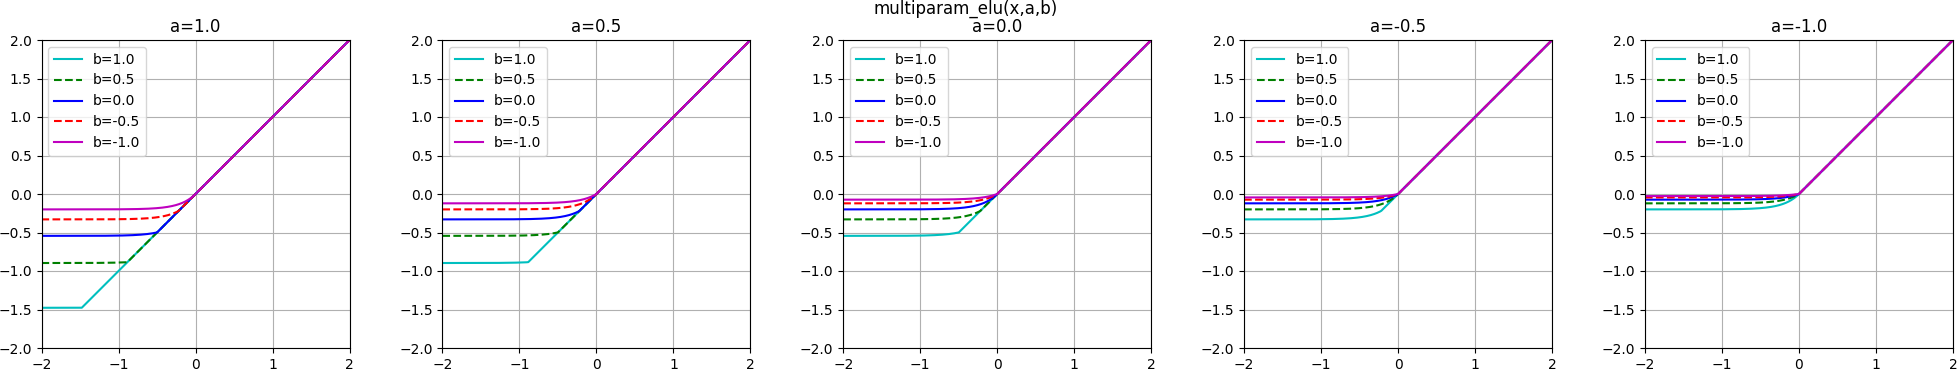
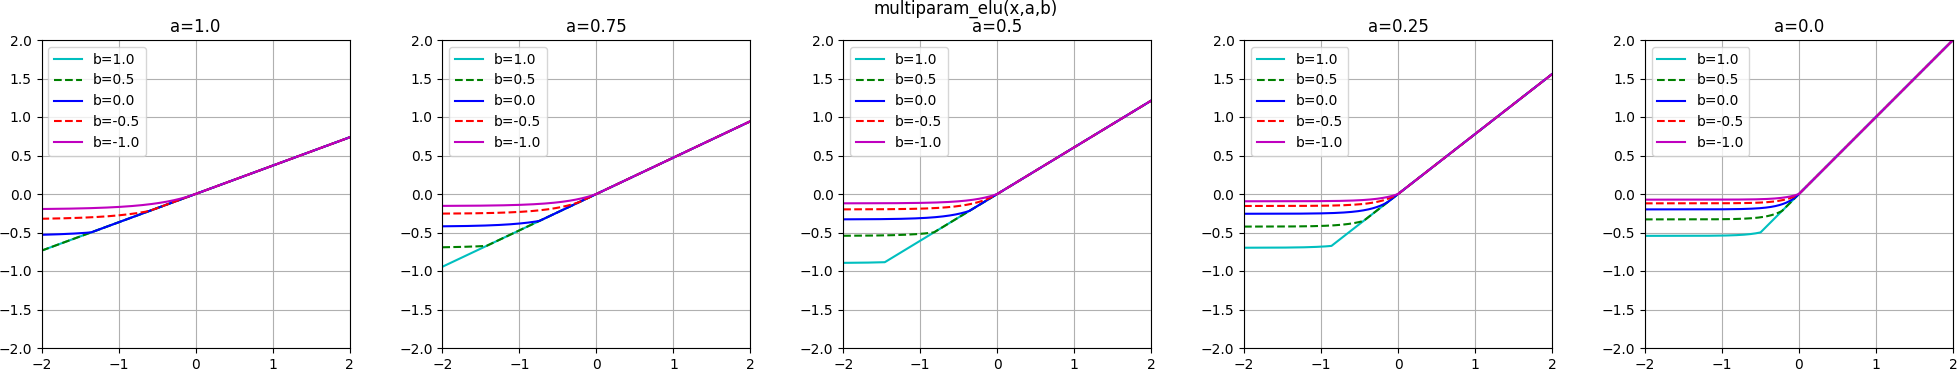
Activation functions

diff --git a/neat/activations.py b/neat/activations.py
@@ -107,9 +107,17 @@ def step_activation(z):
 def multiparam_relu_activation(z, a):
     return max(z, (z*a))
 
+def multiparam_elu_activation_inner(z, a, b):
+    try:
+        result = 0.2 * min(abs(z*5), max((z*5), (math.exp(a)*(math.exp((z*5)+b)-math.exp(b)))))
+    except ArithmeticError:
+        z = 0.2*min(300.0, max(-300.0, (5*z)))
+        return multiparam_elu_activation_inner(z, a, b)
+    else:
+        return result
+
 def multiparam_elu_activation(z, a, b):
-    z = min(60.0, max(-60.0, (5*z)))
-    return 0.2 * min(abs(z), max(z, (math.exp(a)*(math.exp(z+b)-math.exp(b)))))
+    return multiparam_elu_activation_inner((z*min(1.0,math.exp(-a))), a, b)
 
 ##def multiparam_lu_activation(z, a, b, c): # TEST NEEDED!
 ##    z = min(60.0, max(-60.0, (5*z)))
@@ -118,18 +126,21 @@ def multiparam_elu_activation(z, a, b):
 ##def multiparam_lu_partial_activation(z, a, b): # TEST NEEDED!
 ##    return multiparam_lu_activation(z, a, b, 0.0)
 
+def _check_value_range(a, min_val, max_val, caller, var_name): # TEST NEEDED!
+    if not min_val <= a <= max_val:
+        raise ValueError(
+            "{0} for {1}_activation must be between {2:n} and {3:n}, not {4!r}".format(
+                var_name, caller, min_val, max_val, a))
+
 def weighted_lu_activation(z, a, b):
-    assert a <= 1.0
-    assert a >= 0.0
+    _check_value_range(a, 0.0, 1.0, 'weighted_lu', 'a')
 
     return ((a*multiparam_relu_activation(z, b))+
-            ((1-a)*multiparam_elu_activation(z, b, 0.0)))
+            ((1-a)*multiparam_elu_activation_inner(z, b, 0.0)))
 
 def multiparam_relu_softplus_activation(z, a, b):
-    assert a <= 1.0
-    assert a >= 0.0
-    assert b <= 1.0
-    assert b >= 0.0
+    _check_value_range(a, 0.0, 1.0, 'multiparam_relu_softplus', 'a')
+    _check_value_range(b, 0.0, 1.0, 'multiparam_relu_softplus', 'b')
 
     val1 = ((a*relu_activation(z))+
             ((1.0-a)*z))
@@ -219,8 +230,11 @@ class ActivationFunctionSet(object):
         self.add('step', step_activation)
         self.add('multiparam_relu', multiparam_relu_activation,
                  a={'min_value':-1.0, 'max_value':1.0})
+##        self.add('multiparam_elu', multiparam_elu_activation_inner,
+##                 a={'min_value':-1.0, 'max_value':1.0},
+##                 b={'min_value':-1.0, 'max_value':1.0})
         self.add('multiparam_elu', multiparam_elu_activation,
-                 a={'min_value':-1.0, 'max_value':1.0},
+                 a={'min_value':0.0, 'max_value':1.0},
                  b={'min_value':-1.0, 'max_value':1.0})
 ##        self.add('multiparam_lu', multiparam_lu_activation,
 ##                 a={'min_value':-1.0, 'max_value':1.0},

diff --git a/docs/plot_activations.py b/docs/plot_activations.py
@@ -96,7 +96,7 @@ def do_prints():
     for save_result in sorted([n for n in iterkeys(save_to_print) if n not in did_print_result]):
         if len(save_to_print[save_result]) == 1:
             if abs(save_result) not in did_print_result_abs:
-                print("assert_almost_equal({0},{1!r})".format(*save_to_print_abs[abs_result][0]))
+                print("assert_almost_equal({0},{1!r})".format(*save_to_print[save_result][0]))
                 did_print_result_exact.add(save_to_print[save_result][0][1])
                 did_print_result_abs.add(abs(save_result))
         elif len(save_to_print[save_result]) == 2:

diff --git a/docs/module_summaries.rst b/docs/module_summaries.rst
@@ -1117,8 +1117,8 @@ distributed
       Evaluates whether an exception should be treated as simply a reason to retry the operation, as indicating a need to reconnect, or as some worse type of error.
       TODO: Currently, due to problems with the variety of exceptions emitted by the `multiprocessing` module - particularly due to different versions of
       Python - attempts in most (but not all) cases to evaluate the exception via `repr`, looking for keywords, which is uncertain at best. The `multiprocessing` module
-      in particular has a large number of `assert` checks, frequently without user messages; two pull requests have been submitted to correct this in the most problematic
-      portions of the module, in at least the latest (developmental) version of Python ("nightly"), of which one has been accepted thus far.
+      in particular has a large number of `assert` checks, frequently without user messages. Two pull requests have been submitted to correct this for the most problematic
+      portions of the module, in at least the latest (developmental) version of Python ("nightly"), of which one has been accepted thus far; the other is awaiting review.
 
       :param e: The exception to be evaluated.
       :type e: :datamodel:`instance <index-48>`
@@ -2043,7 +2043,7 @@ The basis for :term:`multiparameter` :term:`activation <activation function>` an
       Adds a new activation/aggregation function, potentially multiparameter. A multiparameter function must have entries in ``kwargs`` for each
       of its parameter variables to be evolved. Requirements for the function include the following:
       1. Most obviously, must be a function (including lambda).
-      2. Functions (such as built-in functions) without a :datamodel:`__code__ <index-55>` attribute cannot be multiparameter functions without a wrapper function (which will have the appropriate :datamodel:`__code__ <index-55>` attribute); this attribute is used to determine the arguments for the function.
+      2. Functions (such as built-in functions) without a :datamodel:`__code__ <index-55>` attribute cannot be multiparameter functions without a wrapper function (which will have the appropriate :datamodel:`__code__ <index-34>` attribute); this attribute is used to determine the arguments for the function.
       3. Any function arguments except the first one must be evolved variables with corresponding entries in ``kwargs``.
       4. Multiparameter function names cannot have parentheses, since parenthesized terms are used in constructing a particular function instance.
 

diff --git a/docs/activation.rst b/docs/activation.rst
@@ -25,7 +25,7 @@ identity       multiparam_relu, multiparam_relu_softplus, or weighted_lu
 log             :ref:`scaled_expanded_log <scaled-expanded-log-label>`, if for a CPPN
 relu            multiparam_relu, multiparam_relu_softplus, or weighted_lu
 sigmoid      :ref:`multiparam_sigmoid <multiparam-sigmoid-label>`
-softplus      multiparam_relu_softplus
+softplus      :ref:`multiparam_relu_softplus <multiparam-relu-softplus-label>`
 tanh           :ref:`clamped_tanh_step <clamped-tanh-step-label>`
 ======== =======================================================
 
@@ -118,6 +118,8 @@ multiparam_relu
 .. figure:: activation-multiparam_relu.png
     :scale: 100 %
     :alt: max(x, a*x), where a is an evolved parameter with a range from -1 to 1, inclusive. Acts like a weighted combination of abs, relu, and identity.
+
+.. _multiparam-relu-softplus-label:
 
 multiparam_relu_softplus
 ^^^^^^^^^^^^^^^^^^^^^^^^
